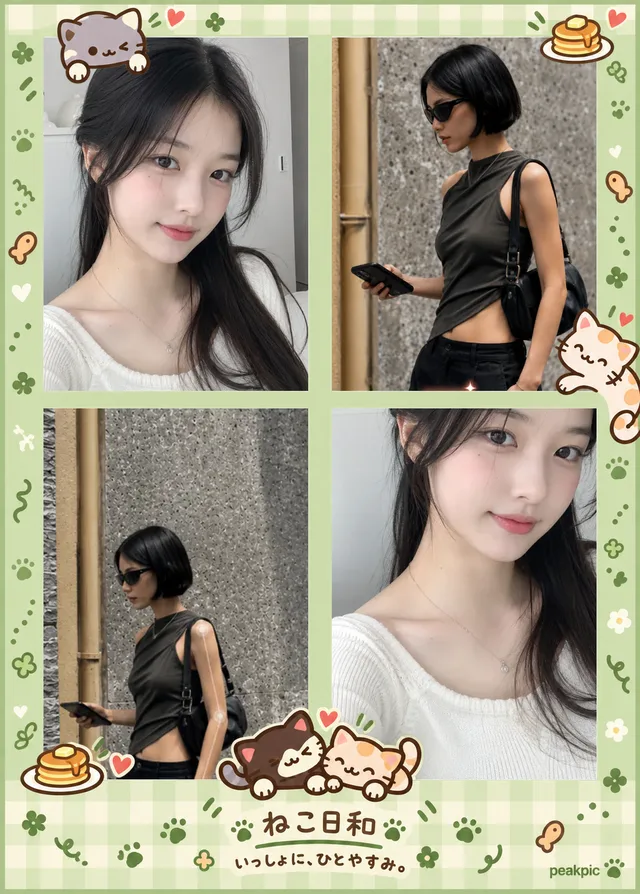
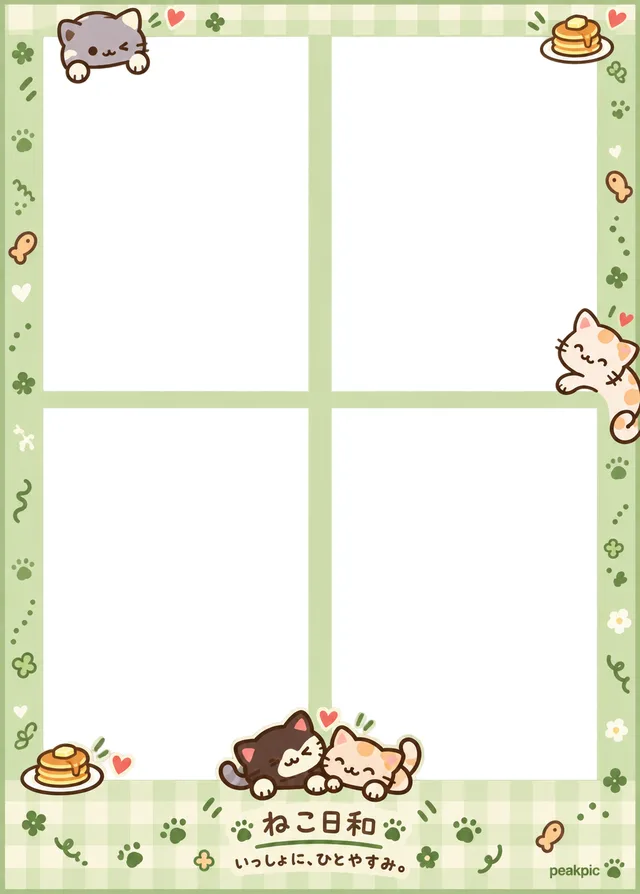
feat: 네컷 랜딩 my frame 을 빈 프레임 + 누끼 흐름 강조로, 설치 문구 정리
- 앞 프레임 칸의 인물 합성 제거(흰 칸), 칸을 캐릭터 누끼 스티커로 꾸밈
- 누끼 따기 카드 → 행진하는 점선 화살표 → 칸에 같은 고양이 스티커가 붙는 6초 루프, 가위 싹둑 모션
- 설치 섹션에서 "친구가 어떤 폰이어도 같이 찍어요." 제거

Claude-Session: https://claude.ai/code/session_01PG4Jp8mFUkeygcHjRkSnUD

diff --git a/css/style.css b/css/style.css
@@ -399,21 +399,38 @@ a:focus-visible, button:focus-visible { outline: 2px solid var(--orange); outlin
 
 /* ---------- 네컷 변형 my frame (/fourcut/): 프레임 3종 부채꼴 + 누끼 스티커 ----------
    뒤 두 장(빈 프레임)은 좌우로 기울여 깔고, 앞 프레임(사진 합성본)을 가운데 세운다 */
-.cluster--frames { aspect-ratio: 1 / 1; }
+.cluster--frames { aspect-ratio: 1 / 1; }                      /* 1:1 이라 화살표 SVG(viewBox 100×100)가 왜곡 없이 겹친다 */
 .frame-card { position: absolute; margin: 0; transform: rotate(var(--r, 0deg)); filter: drop-shadow(0 18px 22px rgba(0, 0, 0, .2)); }
 .frame-card img { display: block; width: 100%; height: auto; border-radius: 4px; }
-.frame-card .pin { --x: 50%; --y: 100%; }                      /* 프레임 이름표는 아래쪽 (위쪽은 스티커 자리) */
+.frame-card .pin { --x: 50%; --y: 100%; }                      /* 디저트 이름표는 아래 */
+.frame-card--r .pin { --y: 0; }                                /* 갸루 이름표는 위 (아래는 누끼 카드 자리) */
 .frame-card--l { left: -1%; top: 16%; width: 41%; z-index: 1; }
 .frame-card--r { right: -1%; top: 11%; width: 41%; z-index: 1; }
 .frame-card--main { left: 27%; top: 2%; width: 46%; z-index: 2; }
+/* 앞 프레임 칸 좌표(1:1 클러스터 기준): 왼쪽 열 x 30~49%, 오른쪽 열 51~70%, 윗줄 y 5~30%, 아랫줄 31~58% */
 .cluster--frames .cut { z-index: 6; }
-.cluster--frames .cut--1 { left: 21%; top: -2%; --r: -10deg; width: clamp(50px, 15cqw, 78px); }
-.cluster--frames .cut--2 { left: 22%; top: 50%; --r: 12deg; width: clamp(44px, 13cqw, 68px); }
-.cluster--frames .cutout { left: 40%; right: auto; top: auto; bottom: -3%; width: 26%; z-index: 5; }   /* 앞 프레임 아래 가운데: 좌우 프레임 이름표를 가리지 않게 */
-.cluster--frames .deco--star { left: 68%; top: 1%; --r: 14deg; }
-.cluster--frames .deco--heart { left: 47%; top: 47%; --r: -12deg; }
-.cluster--frames .bubble--a { left: 3%; bottom: 4%; z-index: 7; }
-.cluster--frames .sticker { right: 0; top: -4%; z-index: 7; width: clamp(66px, 20cqw, 96px); }
+.cluster--frames .cut--1 { left: 31%; top: 8%; --r: -10deg; width: clamp(50px, 16cqw, 80px); }       /* 왼쪽 위 칸 */
+.cluster--frames .cut--2 { left: 54%; top: 11%; --r: 12deg; width: clamp(46px, 14cqw, 72px); }      /* 오른쪽 위 칸 */
+.cluster--frames .cut--paste { left: 32%; top: 33%; --r: -6deg; width: clamp(52px, 17cqw, 84px); z-index: 7; }   /* 왼쪽 아래 칸: 화살표 도착점 */
+.cluster--frames .deco--star { left: 61%; top: 40%; --r: 14deg; }
+.cluster--frames .deco--heart { left: 53%; top: 47%; --r: -12deg; }
+.cluster--frames .cutout { left: 62%; right: auto; top: auto; bottom: -2%; width: 35%; z-index: 5; }
+.cluster--frames .bubble--a { left: 14%; bottom: 3%; z-index: 7; }
+.cluster--frames .sticker { left: -1%; right: auto; top: -2%; z-index: 7; width: clamp(64px, 19cqw, 92px); }
+.cut-arrow { position: absolute; inset: 0; width: 100%; height: 100%; z-index: 6; overflow: visible; pointer-events: none; }
+.cut-arrow path { fill: none; stroke: var(--orange); stroke-width: .9; stroke-linecap: round; stroke-linejoin: round; }
+.cut-arrow__line { stroke-dasharray: 2.4 2; animation: march 1.2s linear infinite; }
+@keyframes march { to { stroke-dashoffset: -8.8; } }
+/* 6초 루프: 고양이 스티커가 칸에 "쏙" 붙고 유지 → 살짝 사라졌다 다시. 가위는 싹둑 */
+.cluster--frames .cut--paste { animation: paste 6s cubic-bezier(.34, 1.56, .64, 1) infinite; }
+@keyframes paste {
+  0%, 12% { scale: 0; opacity: 0; translate: 40% 50%; }
+  22% { scale: 1.15; opacity: 1; translate: 0 0; }
+  27%, 88% { scale: 1; opacity: 1; translate: 0 0; }
+  95%, 100% { scale: .4; opacity: 0; translate: 0 0; }
+}
+.cluster--frames .scissors { animation: snip 1.6s ease-in-out infinite; }
+@keyframes snip { 0%, 60%, 100% { rotate: 0deg; } 70% { rotate: -18deg; } 80% { rotate: 6deg; } }
 
 /* ---------- 네컷 변형 히어로 (/fourcut/): 친구들이 채우는 네컷 콜라주 ----------
    7초 루프: "너도 한 컷 올려!" → "올렸어, 완성!" → 빈 칸이 사진으로 채워지고 3/4 → 4/4 */
@@ -447,7 +464,8 @@ a:focus-visible, button:focus-visible { outline: 2px solid var(--orange); outlin
   html { scroll-behavior: auto; }
   .spin svg, .rec::before, .ticker__track { animation: none; }
   .hero__copy > *, .collage .bubble--a, .collage .bubble--b, .reel__media::after, .collage .pola--side, .collage .logo-sticker,
-  .collage--fourcut .cell-empty, .collage--fourcut .pin--3, .collage--fourcut .pin--4 { animation: none; }
+  .collage--fourcut .cell-empty, .collage--fourcut .pin--3, .collage--fourcut .pin--4,
+  .cut-arrow__line, .cluster--frames .cut--paste, .cluster--frames .scissors { animation: none; }
   .collage--fourcut .cell-empty { opacity: 0; } .collage--fourcut .pin--4 { opacity: 1; } .collage--fourcut .pin--3 { opacity: 0; }   /* 모션 없으면 완성 상태로 */
   .sticky-cta, .btn { transition: none; }
 }

diff --git a/fourcut/index.html b/fourcut/index.html
@@ -148,7 +148,7 @@
     <section class="feature" id="my-frame" aria-labelledby="f1-title">
       <div class="container feature__inner">
         <!-- 네컷 변형 전용 (2026-10-16): 히어로와 같은 네컷 사진 대신 앱의 프레임 3종(Figma "Frame PNGs" 1720:34589)을 부채꼴로 펼쳐
-             "프레임을 골라 쓰고 누끼로 꾸민다"를 보여준다. 앞 프레임(cute)에는 두 사람의 실사 사진을 칸에 합성(친구와 한 컷씩), 뒤 두 장은 빈 프레임 -->
+             "프레임을 골라 쓰고 누끼로 꾸민다"를 보여준다. 프레임은 모두 빈 칸(흰색). 누끼 강조: 누끼 따기 카드 → 점선 화살표 → 앞 프레임 칸에 붙은 같은 스티커(루프 애니메이션) -->
         <div class="cluster cluster--frames">
           <figure class="frame-card frame-card--l" style="--r:-10deg">
             <img src="/assets/img/frame-dessert.webp" width="480" height="670" loading="lazy" decoding="async" alt="디저트 파티 네컷 프레임">
@@ -160,10 +160,17 @@
           </figure>
           <figure class="frame-card frame-card--main" style="--r:-2deg">
             <span class="tape" style="left:50%; margin-left:-10cqw; top:-10px; --tr:3deg"></span>
-            <img src="/assets/img/frame-cute.webp" width="640" height="894" loading="lazy" decoding="async" alt="귀여운 고양이 프레임에 두 친구가 한 컷씩 채운 네컷 사진">
+            <img src="/assets/img/frame-cute.webp" width="640" height="894" loading="lazy" decoding="async" alt="누끼 스티커로 꾸민 귀여운 고양이 네컷 프레임">
           </figure>
 
-          <!-- 앞 프레임 위에 붙인 누끼 스티커 (자체 캐릭터 SVG) -->
+          <!-- 누끼 흐름: 카드에서 오려낸 고양이가 점선을 따라 앞 프레임 왼쪽 아래 칸에 붙는다 -->
+          <svg class="cut-arrow" viewBox="0 0 100 100" aria-hidden="true" focusable="false">
+            <path class="cut-arrow__line" d="M63 79 C 54 90, 41 85, 41.5 54"/>
+            <path class="cut-arrow__head" d="M38.4 57.4 L41.5 53 L44.6 57.2"/>
+          </svg>
+          <span class="cut cut--svg cut--paste" aria-hidden="true"><img src="/assets/img/char-cat.svg" width="120" height="120" alt="" loading="lazy"></span>
+
+          <!-- 앞 프레임 칸에 붙인 다른 누끼 스티커 (자체 캐릭터 SVG) -->
           <span class="cut cut--svg cut--1" aria-hidden="true"><img src="/assets/img/char-bear.svg" width="120" height="120" alt="" loading="lazy"></span>
           <span class="cut cut--svg cut--2" aria-hidden="true"><img src="/assets/img/char-blob.svg" width="120" height="120" alt="" loading="lazy"></span>
           <span class="deco deco--star" aria-hidden="true"><svg viewBox="0 0 24 24" aria-hidden="true"><path d="M12 2l2.9 6.6 7.1.7-5.4 4.8 1.6 7L12 17.4 5.8 21l1.6-7L2 9.3l7.1-.7z" fill="#FF5A47"/></svg></span>
@@ -179,7 +186,7 @@
             <figcaption class="pola__cap"><span><b>최애</b> 누끼 따기</span><span>cut</span></figcaption>
           </figure>
 
-          <span class="bubble bubble--orange bubble--a" style="--r:-4deg" aria-hidden="true">오늘은 이 프레임!</span>
+          <span class="bubble bubble--orange bubble--a" style="--r:-4deg" aria-hidden="true">누끼 따서 쏙!</span>
           <span class="sticker" style="--r:10deg" aria-hidden="true">프레임<br>골라 쓰기</span>
         </div>
         <div class="feature__copy">
@@ -261,7 +268,7 @@
         <div class="install__copy">
           <span class="tag tag--orange" style="--r:-2deg">download</span>
           <h2 id="install-title" class="headline">지금 설치하고<br>친구에게 첫 프레임을<br><span class="hl">공유</span>해보세요</h2>
-          <p class="lede">Android와 iPhone 모두 지금 바로 설치할 수 있어요. 친구가 어떤 폰이어도 같이 찍어요.</p>
+          <p class="lede">Android와 iPhone 모두 지금 바로 설치할 수 있어요.</p>
           <div class="store-cta">
             <a class="btn btn--dot btn-store" href="#install">앱 다운로드</a>
             <p class="stores__note">무료 · 로그인 없이 바로 시작할 수 있어요.</p>

diff --git a/scripts/compose-frames.py b/scripts/compose-frames.py
@@ -31,8 +31,7 @@ def build(name, photos, width):
     w = width; h = round(fr.size[1]*w/fr.size[0])
     base.resize((w, h), Image.LANCZOS).save(f'{out}/frame-{name}.png')
     print(name, (w, h))
-# 앞 프레임(cute): 두 친구가 두 컷씩 — 소녀(onboarding-1) / 단발(onboarding-4, onboarding-2)
-build('cute', [('onboarding-1.webp', .5, .42, 1.15), ('onboarding-4.webp', .55, .40, 1.25),
-               ('onboarding-2.webp', .45, .33, 2.1), ('onboarding-1.webp', .38, .62, 1.35)], 640)
+# 앞 프레임(cute)도 빈 칸(흰색) — 2026-10-16 인물 합성은 어색하다는 피드백으로 제거
+build('cute', [None]*4, 640)
 build('dessert', [None]*4, 480)
 build('gyaru', [None]*4, 480)

diff --git a/CLAUDE.md b/CLAUDE.md
@@ -63,6 +63,7 @@
 - /fourcut/ (2026-10-16): 네컷 → 미러링 → 포즈, 히어로 "뭐하러 부스까지 가? 폰으로 공짜 네컷." + 영상 프레임 대신 채워지는 네컷 콜라주
   (`.collage--fourcut`: 마지막 칸 `.cell-empty` 가 7초 루프 안에서 채워지고 3/4 → 4/4). 문제 공감은 줄·모임·비용 3장. 광고 URL 은 utm_content=fourcut_b
   01 my frame 은 히어로와 이미지가 겹치지 않게 프레임 3종 부채꼴(`.cluster--frames`) + 누끼 카드, 헤드라인 "프레임은 취향대로 고르고, 최애 누끼로 꾸미기"
+  누끼 강조: 누끼 따기 카드 → 행진하는 점선 화살표 → 앞 프레임 칸에 같은 고양이 스티커가 "쏙" 붙는 6초 루프
 
 1. 히어로: 시연 영상(자동재생·음소거·루프 — 영상 오기 전엔 home 화면 목업+포스터) +
    슬로건 + **단일 "앱 다운로드" 버튼(주 CTA, OS 별 스토어 직행)**
@@ -95,7 +96,7 @@
 - img/fourcut-app.webp — "AI 네컷사진" 화면 목업(현재 미사용, 필요 시 사용)
 - img/char-*.svg — 나만의 네컷 섹션의 누끼 스티커용 자체 캐릭터(저작권 없음). 실제 캐릭터/연예인 누끼는 팀이 권리 확인 후 교체
 - img/frame-cute.webp, frame-dessert.webp, frame-gyaru.webp — 앱의 네컷 프레임 3종(Figma "Frame PNGs" node 1720:34589, 원본 assets/raw/frames/).
-  /fourcut/ 01 my frame 섹션 전용(2026-10-16): cute 는 칸에 onboarding 실사 2인(두 친구가 두 컷씩)을 합성, 나머지 둘은 빈 프레임.
+  /fourcut/ 01 my frame 섹션 전용(2026-10-16): 세 장 모두 빈 칸(흰색). 칸에 인물 사진 합성은 어색하다는 피드백으로 폐기 — 칸은 누끼 스티커로만 꾸민다.
   재생성 `python3 scripts/compose-frames.py <출력폴더>` 후 cwebp
 - raw/ 의 SVG들(온보딩 1~4, home 등)은 **원본 보관용** — 사진이 base64 내장이라 3~11MB.
   **페이지에 원본 직접 삽입 금지**, 반드시 PNG/WebP(폭 750px 내외, 각 200KB 이하)로
